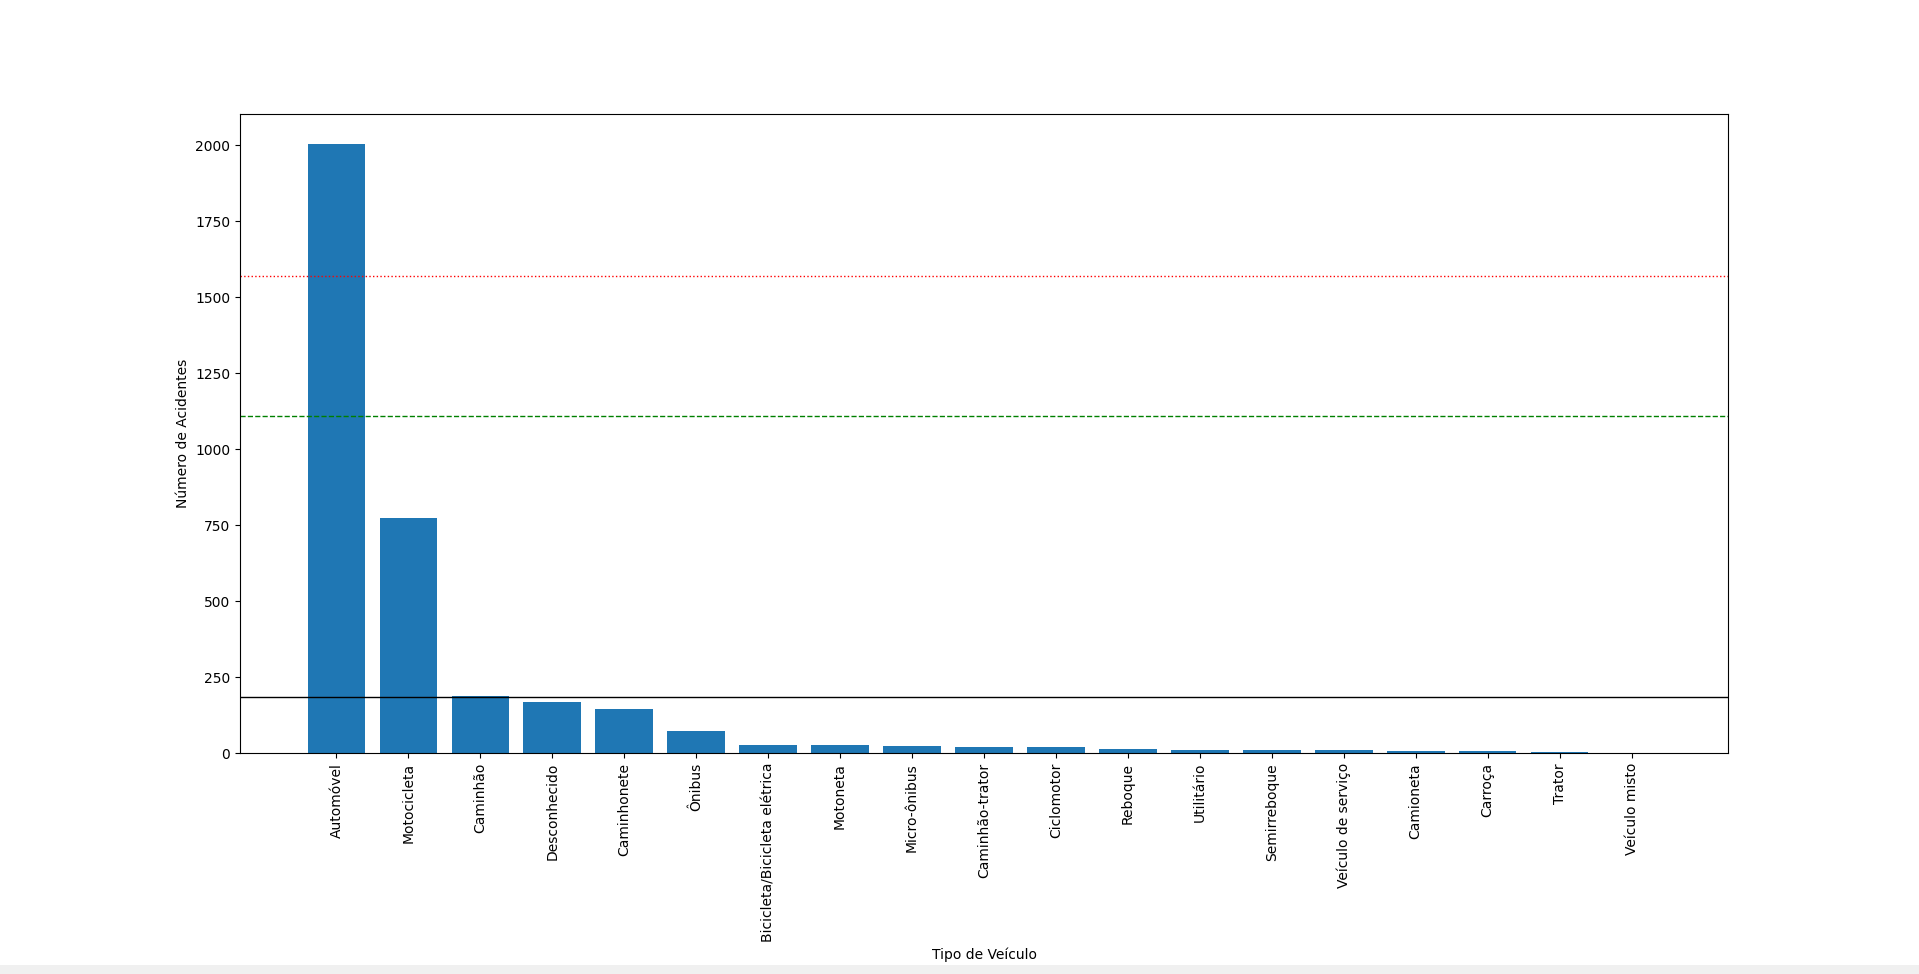
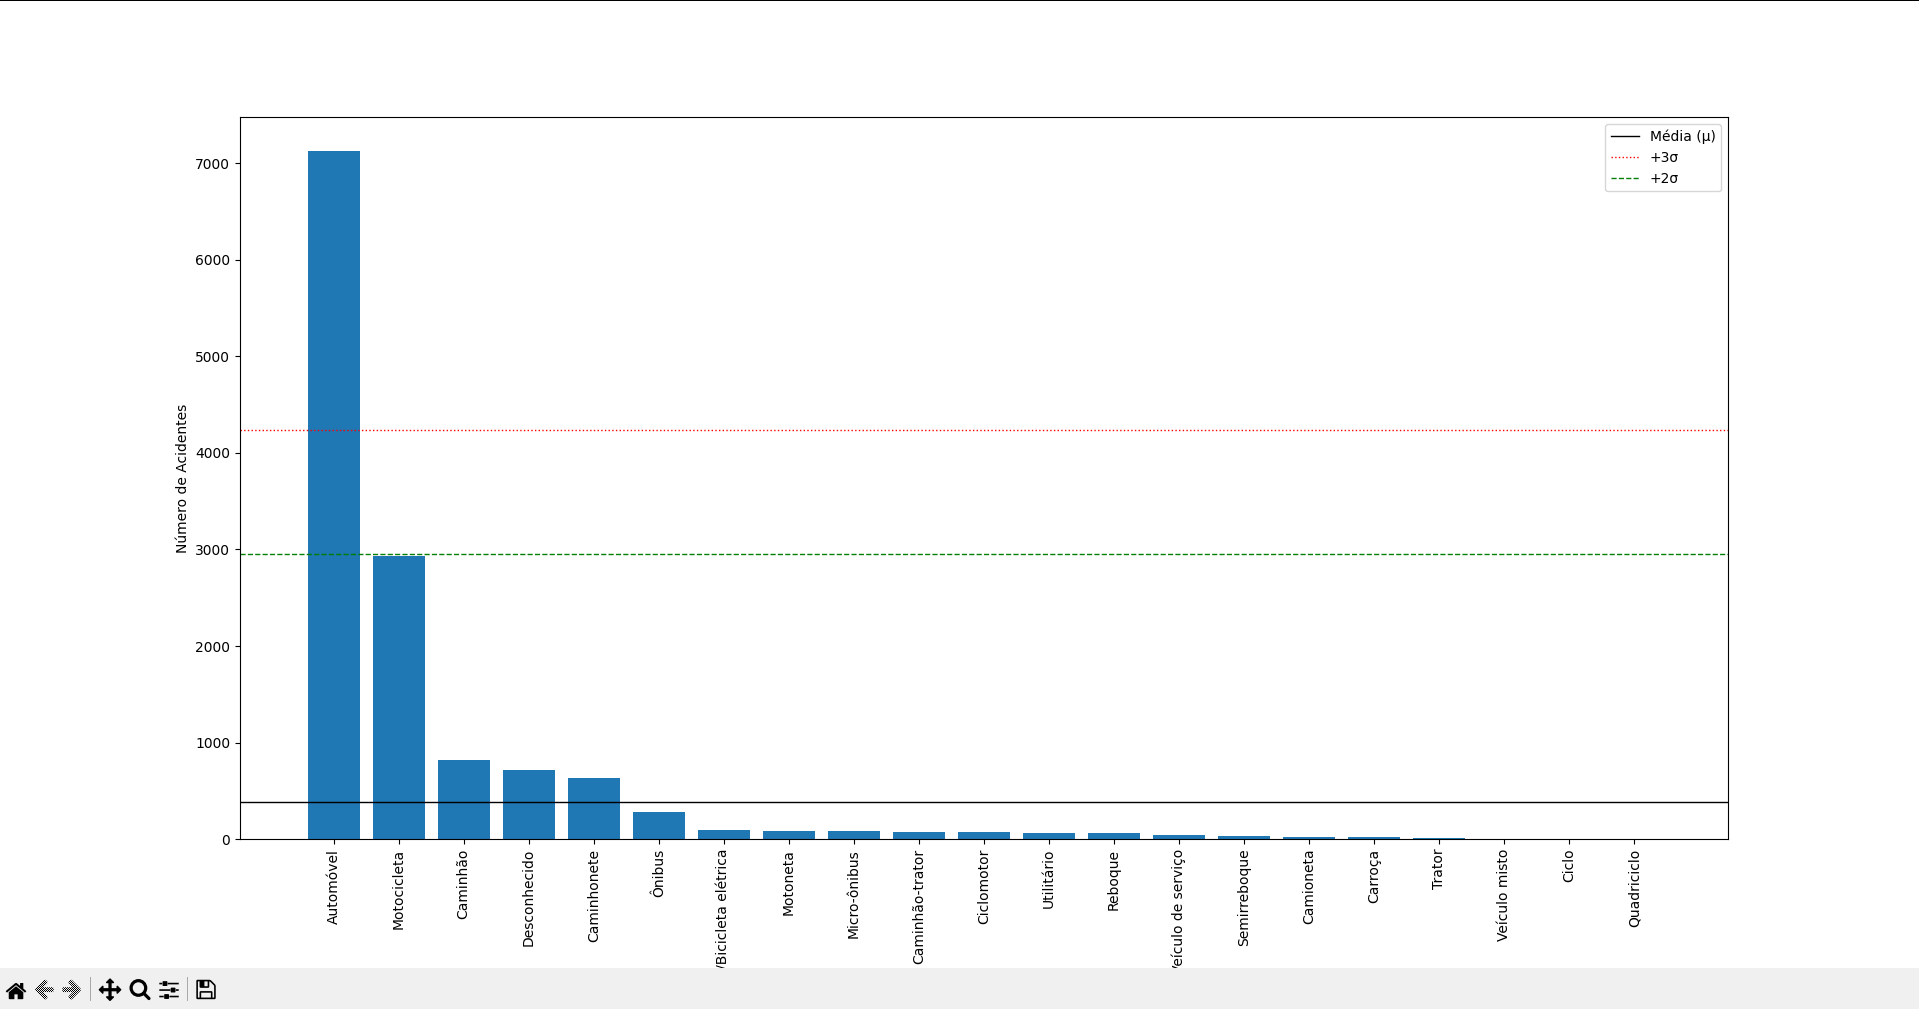
updated grafico-veiculos.png on readme, updated sorting mechanism on plot_veiculos function

diff --git a/analizer.py b/analizer.py
@@ -6,7 +6,7 @@ import statistics
 
 dict_tipo_veículo = {
     "01": "Automóvel",
-    "02": "Motocicleta",
+    "02": "Bicicleta/Bicicleta elétrica",
     "03": "Bonde",
     "04": "Caminhão",
     "05": "Caminhão-trator",
@@ -18,7 +18,7 @@ dict_tipo_veículo = {
     "11": "Ciclo",
     "12": "Ciclomotor",
     "13": "Micro-ônibus",
-    "14": "Bicicleta/Bicicleta elétrica",
+    "14": "Motocicleta",
     "15": "Motoneta",
     "16": "Motorcasa (Motorhome)",
     "17": "Ônibus",
@@ -132,26 +132,25 @@ def plot_veiculo():
             label = dict_tipo_veículo['99']
         if item != 0:
             veiculo_arr_stringify.append((label, item))
-    temp = []
-    for i in veiculo_arr_stringify:
-        temp.append(i[0])
     media = statistics.mean(veiculo_arr)
     desvio_padrao = statistics.pstdev(veiculo_arr)
     
-    veiculo_arr_sorted = sorted(veiculo_arr_stringify)
+    veiculo_arr_sorted = sorted(veiculo_arr_stringify, key=lambda x: x[1], reverse=True)
     number_of_incidents = []
+    vehicle_type = []
+    i = 0
     for item in veiculo_arr_sorted:
+        vehicle_type.append(item[0])
         number_of_incidents.append((item[1]))
-    number_of_incidents = sorted(number_of_incidents, reverse=True)
-
-    plt.bar(temp, number_of_incidents)
+    print(veiculo_arr_sorted)
+    plt.bar(vehicle_type, number_of_incidents)
     plt.xticks(rotation=90)
     plt.xlabel('Tipo de Veículo')
     plt.ylabel('Número de Acidentes')
     
     plt.axhline(media, color='black', linestyle='-', linewidth=1, label='Média (μ)')
-    plt.axhline(media + (2 * desvio_padrao), color='red', linestyle=':', linewidth=1, label='+3σ')
-    plt.axhline(media + (1 * desvio_padrao), color='green', linestyle='--', linewidth=1, label='+2σ')
+    plt.axhline(media + (3 * desvio_padrao), color='red', linestyle=':', linewidth=1, label='+3σ')
+    plt.axhline(media + (2 * desvio_padrao), color='green', linestyle='--', linewidth=1, label='+2σ')
     
     plt.legend()
     plt.show()
